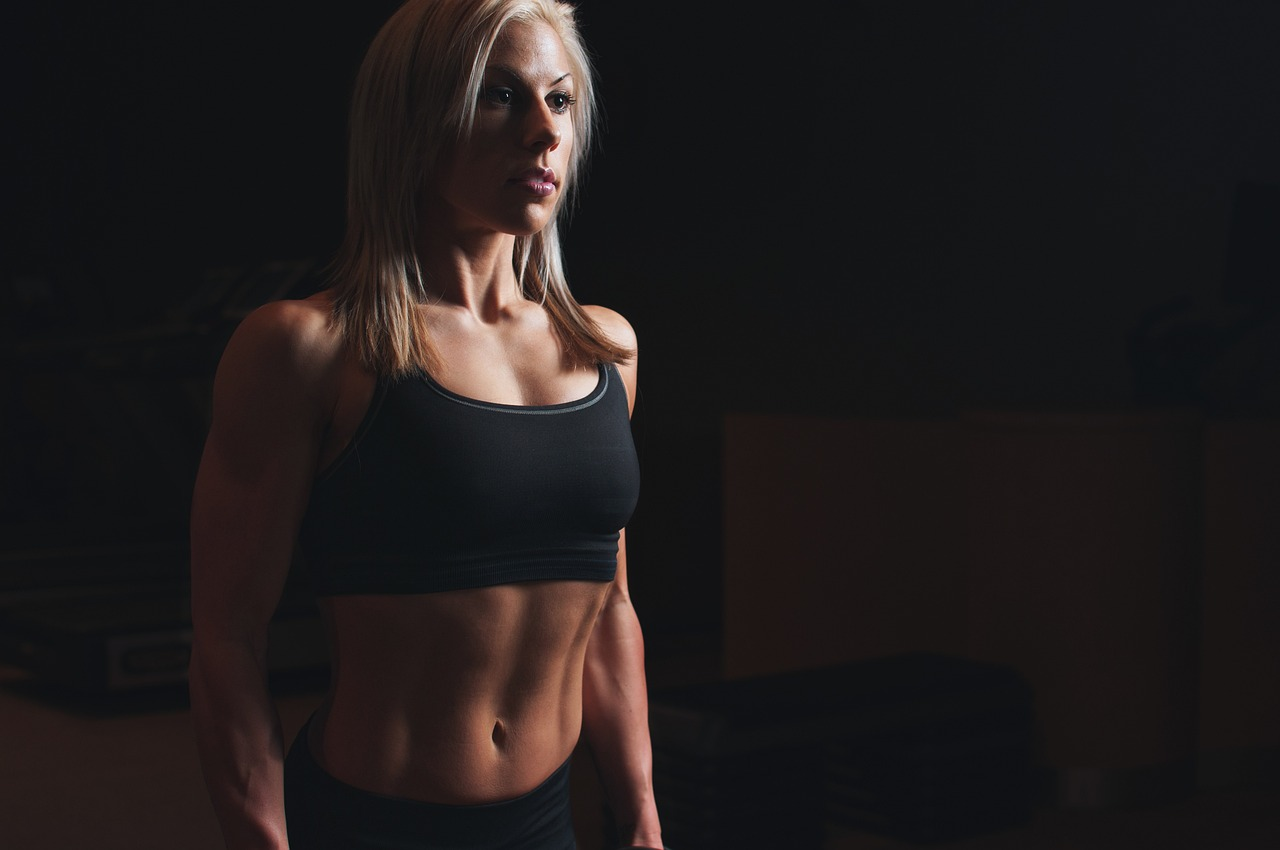
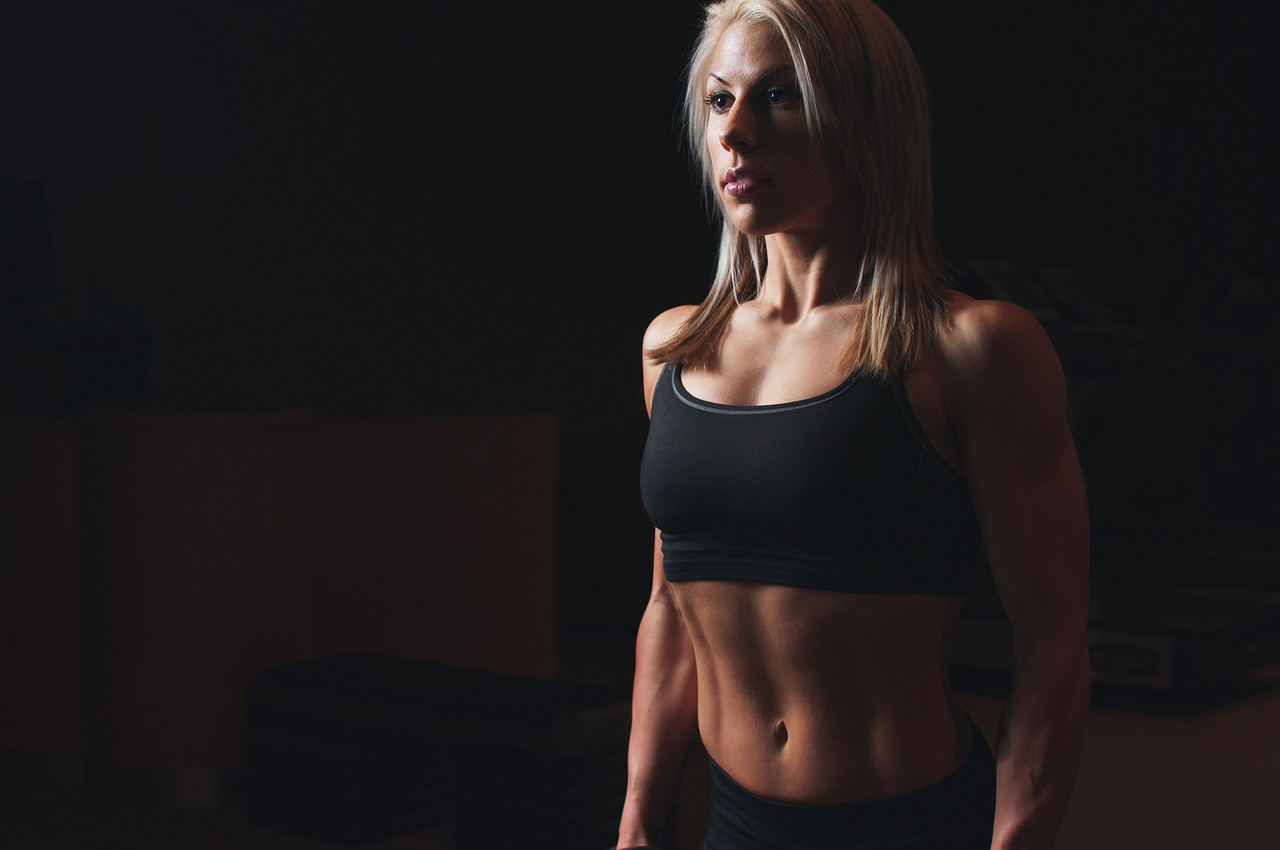
half complete

Changed region(s): [[0.1562, 0.0, 0.8438, 1.0], [0.75, 0.8259, 0.8438, 1.0], [0.1562, 0.8259, 0.25, 1.0]]

diff --git a/index.html b/index.html
@@ -14,8 +14,7 @@
         margin: 0px;
         padding: 0px;
         /* url is a function used to give the path of img */
-        background: url('img/img.jpg');
-
+        background: url('img/img2.jpg');
     }
 
     .left {
@@ -65,7 +64,7 @@
         text-decoration: underline;
         color: gray;
     }
-    #btn{
+    .btn{
         margin: 0px 8px;
         color: white;
         background-color: black;
@@ -75,11 +74,19 @@
         font-size: 20px ;
         cursor: pointer;
     }
-    #btn :hover{
+    .btn :hover{
         background-color: rgb(85, 83, 83);
     }
+    .container{
+        border: 2px solid green;
+        margin: 12px 20px;
+        padding: 20px 94px;
+        width: 29%;
+        border-radius: 2px;
+    }
+    </style>
 <body>
-    <header class="header">
+    <header>
         <!-- left box for logo -->
         <div class="left">
             <img src="img/logo.png" alt="Fitness Guru">
@@ -96,17 +103,27 @@
         </div>
         <!-- right box for buttoms -->
         <div class="right">
-            <button id="btn">Call Us Now</button>
-            <button id="btn">Email</button>
+            <button class="btn">Call Us Now</button>
+            <button class="btn">Email</button>
         </div>
     </header>
     <div class="container">
         <h1>best gym in the gopalganj</h1>
-        /* no action php is the backend we can change */
+        <!-- /*no action php is the backend we can change */ -->
         <form action="noaxen.php">
             <div class="form">
-                <input type="text" placeholder=>
-                </div>
+                <input type="text" name="" placeholder="Enter Your Name">
+            </div>
+            <div class="form">
+                <input type="text" name="" placeholder="Enter Your Name">
+            </div>
+            <div class="form">
+                <input type="text" name="" placeholder="Enter Your Name">
+            </div>
+            <div class="form">
+                <input type="text" name="" placeholder="Enter Your Name">
+            </div>
+            <botton class="btn"></botton>
         </form>
         </div>
 </body>
